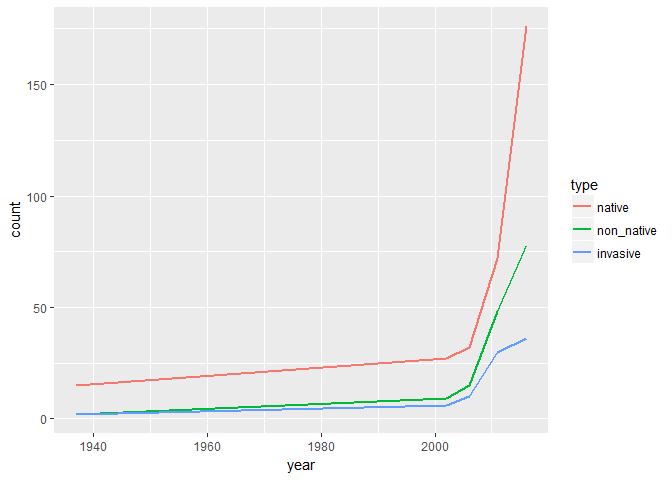
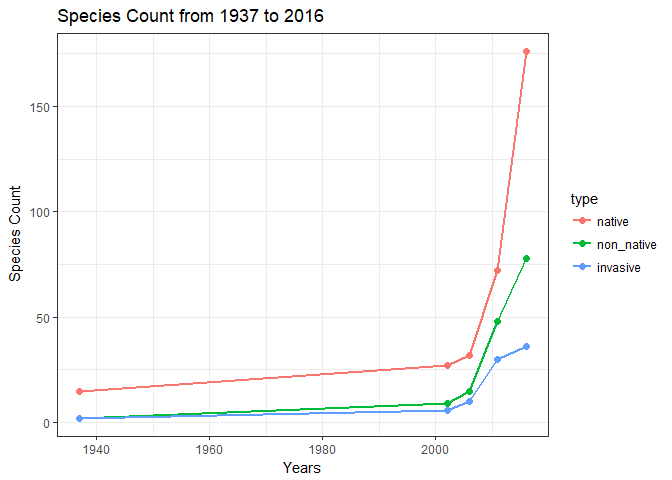
Modified the plots a little

diff --git a/Deliverables/5 RScript/vikash-rScript.md b/Deliverables/5 RScript/vikash-rScript.md
@@ -137,7 +137,10 @@ colnames(cst_trendL)[3] <- "count"
 
 #Plotting the dataset
 library(ggplot2)
-ggplot(cst_trendL, aes(x = year, y = count, color = type)) + geom_line(size=1)
+
+line <- ggplot(cst_trendL, aes(x = year, y = count, color = type)) + geom_line(size=1) + geom_point(size=2)+ ggtitle("Species Count from 1937 to 2016") + labs(x="Years", y="Species Count")
+line <- line + theme_bw()
+line
 ```
 
 ![](vikash-rScript_files/figure-markdown_github/cst_plot-1.png)
@@ -145,7 +148,12 @@ ggplot(cst_trendL, aes(x = year, y = count, color = type)) + geom_line(size=1)
 NYBG has been actively working since 2002, and the results for the same is evident from the plot above. If we analyze this trend from 2002 to 2016, we would get a more detailed picture
 
 ``` r
-ggplot(cst_trendL[cst_trendL$year >= "2002-01-01",], aes(x = year, y = count, color = type)) + geom_line(size=1)
+line <- ggplot(cst_trendL[cst_trendL$year >= "2002-01-01",], aes(x = year, y = count, color = type)) + geom_line(size=1) + geom_point(size=4, shape=21, fill="white") + ggtitle("Species Count from 2002 to 2016") + labs(x="Years", y="Species Count")
+line <- line + theme_bw()
+line
 ```
 
-![](vikash-rScript_files/figure-markdown_github/cst_plot_2002-1.png) \# End
+![](vikash-rScript_files/figure-markdown_github/cst_plot_2002-1.png)
+
+End
+===
